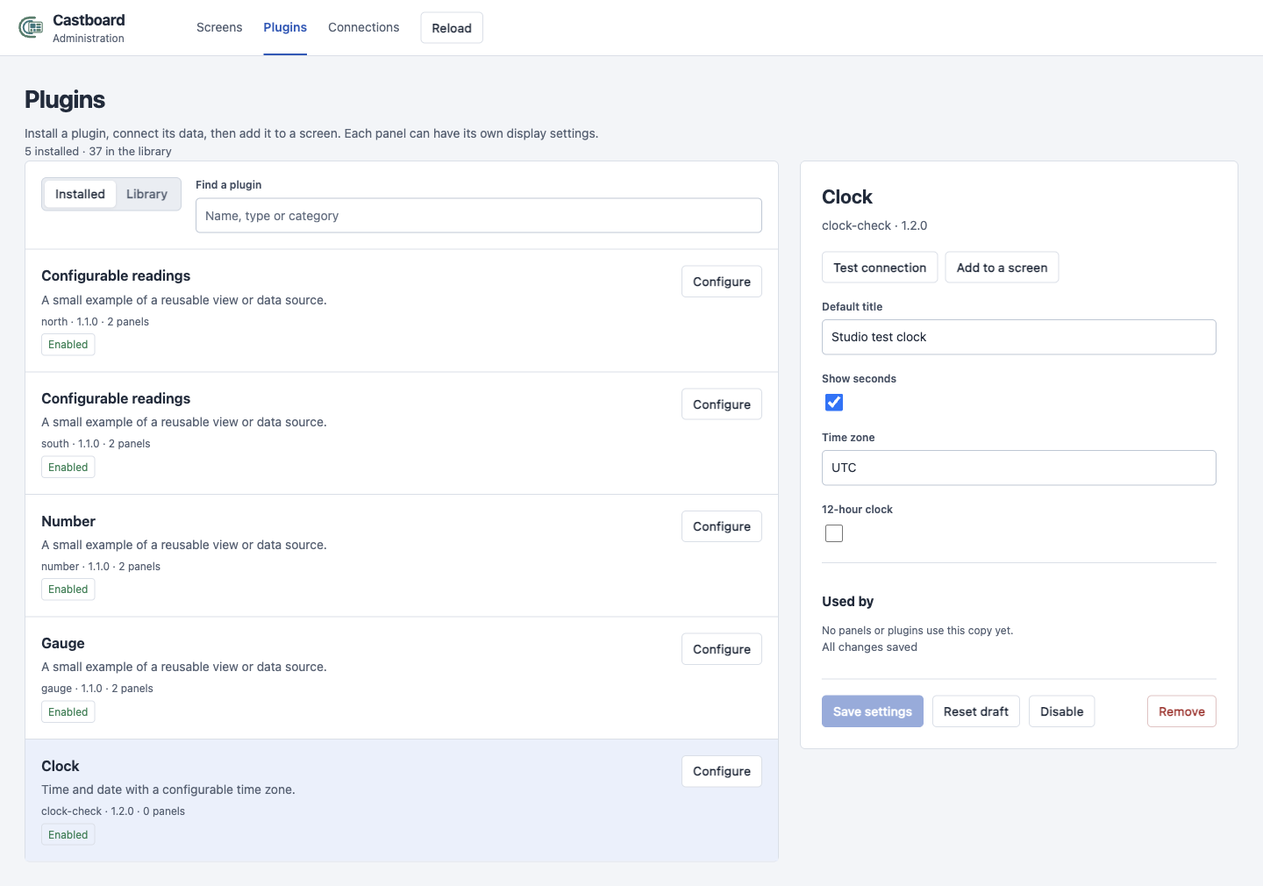
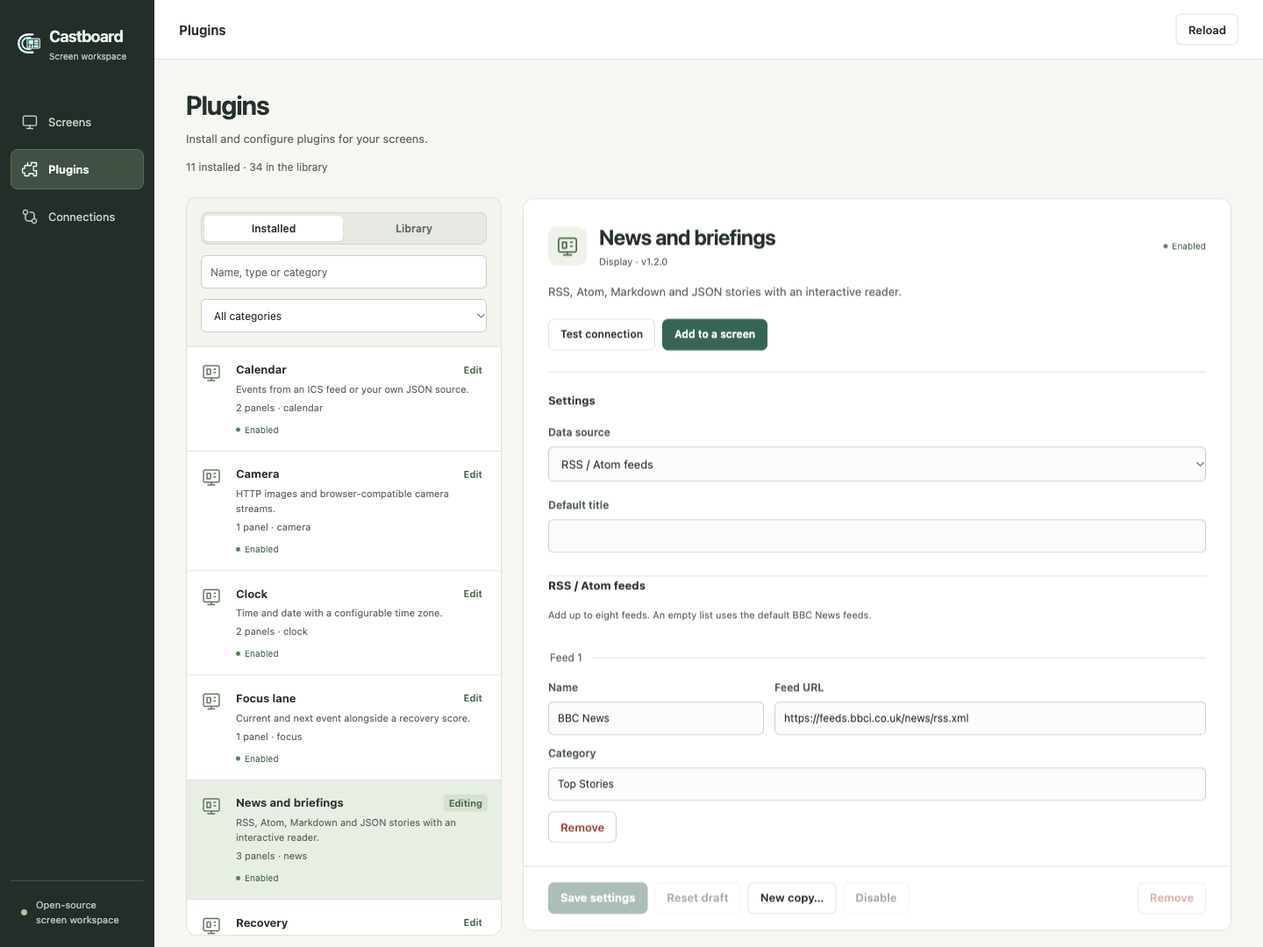
feat(admin): simplify plugin records and finish editing journeys

diff --git a/public/plugin-admin.js b/public/plugin-admin.js
@@ -1,3 +1,4 @@
+import { recordListField } from '/record-list-field.js';
 import { mergeDraft, resolveDraft, sameValue, safePluginDraft, protectedSetting } from '/draft-model.js';
 const $=selector=>document.querySelector(selector);
 const escapeHtml=value=>String(value??'').replace(/[&<>"']/g,char=>({'&':'&amp;','<':'&lt;','>':'&gt;','"':'&quot;',"'":'&#39;'}[char]));
@@ -26,7 +27,9 @@ function restoreEdits(instance){
 function revealRecovery(message,actions=[]){const box=$('#plugin-recovery');box.replaceChildren();box.hidden=!message;if(!message)return;const text=document.createElement('p');text.textContent=message;box.append(text);for(const [label,action]of actions){const button=document.createElement('button');button.className='button secondary';button.type='button';button.textContent=label;button.onclick=action;box.append(button);}}
 
 async function request(url,init={}){
- const response=await fetch(url,{...init,headers:{...(init.body?{'Content-Type':'application/json'}:{}),...(token?{Authorization:`Bearer ${token}`}:{})},cache:'no-store'});
+ let response;
+ try{response=await fetch(url,{...init,headers:{...(init.body?{'Content-Type':'application/json'}:{}),...(token?{Authorization:`Bearer ${token}`}:{})},cache:'no-store'});}
+ catch{throw new Error('Could not reach Castboard. Check your connection, then try again.');}
  const payload=await response.json();
  if(response.status===403){if(!$('#token-dialog').open)$('#token-dialog').showModal();throw new Error('Enter your admin token to continue.');}
  if(!response.ok){const error=new Error(payload.error?.message||'The request failed.');error.code=payload.error?.code;error.status=response.status;throw error;}
@@ -42,12 +45,13 @@ function renderList(){
  if(!data)return;
  const search=$('#plugin-search').value.toLowerCase(),category=$('#plugin-category').value;
  $('.plugin-workspace').classList.toggle('library-mode',collection==='library');
- const entries=(collection==='installed'?data.instances:data.packages).filter(item=>`${item.name} ${item.id} ${item.type||''} ${item.category||pkgFor(item.type)?.category||''}`.toLowerCase().includes(search)&&(!category||categoryName(item)===category)).sort((a,b)=>Number(Boolean(b.hasWidget))-Number(Boolean(a.hasWidget))||a.name.localeCompare(b.name));
+ const missing=[...drafts].filter(([id])=>!data.instances.some(item=>item.id===id)).map(([id,draft])=>({...draft.base,id,missing:true,usedBy:[],enabled:false}));
+ const entries=(collection==='installed'?[...data.instances,...missing]:data.packages).filter(item=>`${item.name} ${item.id} ${item.type||''} ${item.category||pkgFor(item.type)?.category||''}`.toLowerCase().includes(search)&&(!category||categoryName(item)===category)).sort((a,b)=>Number(Boolean(b.hasWidget))-Number(Boolean(a.hasWidget))||a.name.localeCompare(b.name));
  $('#show-installed').setAttribute('aria-pressed',String(collection==='installed'));$('#show-library').setAttribute('aria-pressed',String(collection==='library'));$('#show-installed').classList.toggle('active',collection==='installed');$('#show-library').classList.toggle('active',collection==='library');
  $('#plugin-roster').innerHTML=entries.map(item=>{
   const pkg=collection==='installed'?pkgFor(item.type):item;
   const count=collection==='installed'?item.usedBy.filter(use=>use.kind==='panel').length:data.instances.filter(instance=>instance.type===item.id).length;
-  return `<article class="plugin-row ${collection==='installed'&&item.id===selected?'selected':''}"><div class="plugin-row-icon">${packageIcon(item)}</div><div class="plugin-row-copy"><h2>${escapeHtml(item.name)}</h2><p class="plugin-description">${escapeHtml(pkg?.description||'Locally installed plugin.')}</p><p class="plugin-meta">${collection==='installed'?`${count} panel${count===1?'':'s'} · ${escapeHtml(item.id)}`:escapeHtml(categoryName(item))+' · '+escapeHtml(item.origin)}</p>${collection==='installed'?`<span class="plugin-status ${item.enabled?'enabled':''}">${item.enabled?'Enabled':'Disabled'}${drafts.has(item.id)?' · Draft':''}</span>`:`<span class="plugin-version">v${escapeHtml(item.version||'1.0.0')}${count?` · ${count} installed`:''}</span>`}</div><button class="button row-action" ${collection==='library'&&!item.managed?'disabled':''} data-${collection==='installed'?'select':'install'}="${escapeHtml(item.id)}" aria-label="${collection==='installed'?'Configure':'Install'} ${escapeHtml(item.name)} (${escapeHtml(item.id)})">${collection==='installed'?'Configure':'Install'}</button></article>`;
+  return `<article class="plugin-row ${collection==='installed'&&item.id===selected?'selected':''}"><div class="plugin-row-icon">${packageIcon(item)}</div><div class="plugin-row-copy"><h2>${escapeHtml(item.name)}</h2><p class="plugin-description">${escapeHtml(pkg?.description||'Locally installed plugin.')}</p><p class="plugin-meta">${collection==='installed'?`${count} panel${count===1?'':'s'} · ${escapeHtml(item.id)}`:escapeHtml(categoryName(item))+' · '+escapeHtml(item.origin)}</p>${collection==='installed'?`<span class="plugin-status ${item.enabled?'enabled':''}">${item.missing?'Removed copy':item.enabled?'Enabled':'Disabled'}${drafts.has(item.id)?' · Draft':''}</span>`:`<span class="plugin-version">v${escapeHtml(item.version||'1.0.0')}${count?` · ${count} installed`:''}</span>`}</div><button class="button row-action" ${collection==='library'&&!item.managed?'disabled':''} data-${collection==='installed'?'select':'install'}="${escapeHtml(item.id)}" aria-label="${collection==='installed'?'Configure':'Install'} ${escapeHtml(item.name)} (${escapeHtml(item.id)})">${collection==='installed'?'Configure':'Install'}</button></article>`;
  }).join('')||'<p class="plugin-empty">No plugins match this search.</p>';
  for(const button of document.querySelectorAll('[data-select]'))button.onclick=()=>{if(selected===button.dataset.select)return;if(!canLeave())return;selected=button.dataset.select;resetEdits();rememberSelection();renderList();renderDetail();if(innerWidth<=1000)$('#plugin-detail').scrollIntoView({behavior:'auto',block:'start'});};
  for(const button of document.querySelectorAll('[data-install]'))button.onclick=()=>{if(canLeave())void mutate({action:'install',id:nextCopyId(button.dataset.install),type:button.dataset.install});};
@@ -57,7 +61,7 @@ function showRelevantFields(instance){
  for(const label of document.querySelectorAll('[data-setting]')){
   const field=instance.settingsSchema.properties[label.dataset.setting];
   label.hidden=Boolean(field.showWhen&&!Object.entries(field.showWhen).every(([key,allowed])=>allowed.includes(values[key])));
-  for(const input of label.querySelectorAll('input,select,textarea'))input.disabled=label.hidden||Boolean(input.id===`setting-${label.dataset.setting}`&&label.querySelector('[data-clear-secret]')?.checked);
+  for(const input of label.querySelectorAll('input,select,textarea,button'))input.disabled=label.hidden||Boolean(input.dataset.recordLimit==='true')||Boolean(input.id===`setting-${label.dataset.setting}`&&label.querySelector('[data-clear-secret]')?.checked);
  }
  for(const group of document.querySelectorAll('.advanced-plugin-settings')){group.hidden=![...group.querySelectorAll('[data-setting]')].some(label=>!label.hidden);
  }
@@ -66,6 +70,8 @@ function settingField(key,field,instance){
  const protectedField=protectedSetting(key,field,instance.settings[key],instance.protectedFields);
  const lineList=field.type==='array'&&field.items?.type==='string'&&!protectedField;
  const value=Object.hasOwn(edits,key)?edits[key]:clears.has(key)?'':protectedField?'':instance.settings[key]??pkgFor(instance.type)?.defaultConfig?.[key]??field.default??'';
+ const recordSchema=field.items?.anyOf?.find(item=>item.type==='object')||field.items;
+ if(!protectedField&&field.type==='array'&&recordSchema?.type==='object'&&recordSchema.properties&&Object.values(recordSchema.properties).every(item=>['string','number','integer','boolean'].includes(item.type)))return recordListField(key,{...field,items:recordSchema},value,next=>{edits[key]=next;clears.delete(key);changed();});
  const label=document.createElement('label');label.className=`field${field.type==='boolean'?' boolean-field':''}${protectedField?' secret-field':''}`;label.dataset.setting=key;
  const heading=document.createElement('span');heading.textContent=field.title||key;label.append(heading);
  if(protectedField){const status=document.createElement('small');status.className='field-state';status.textContent=instance.protectedFields.includes(key)?'Configured · hidden':'Not configured';heading.append(status);}
@@ -92,8 +98,19 @@ function settingField(key,field,instance){
  }
  return label;
 }
+function renderUnavailableDraft(instance,draft){
+ const replaced=Boolean(instance),pkg=pkgFor(draft.base.type),detail=$('#plugin-detail');
+ detail.innerHTML=`<header class="detail-heading"><div><h2>${escapeHtml(draft.base.name)}</h2><p>${escapeHtml(selected)} · Unsaved draft</p></div></header><div id="plugin-recovery" class="plugin-recovery" role="status"></div><p id="save-error" class="field-error" role="alert"></p>`;
+ const recover=()=>mutate({action:'install',id:replaced?nextCopyId(draft.base.type):selected,type:draft.base.type},{draft,previousId:selected});
+ const discard=()=>{clearDraft();resetEdits();void load();};
+ const actions=[];
+ if(pkg?.managed)actions.push([replaced?'Restore as a new copy':'Reinstall this copy',recover]);
+ actions.push(['Discard this draft',discard]);
+ revealRecovery(replaced?'A different plugin now uses this copy’s name. Restore your draft as a new copy to keep both.':'This copy was removed in another window. Your draft is still here.'+(pkg?.managed?' Reinstall it to continue editing.':' Its package must be added to the library before it can be restored.'),actions);
+}
 function renderDetail(){
- const instance=data.instances.find(item=>item.id===selected),detail=$('#plugin-detail');
+ const instance=data.instances.find(item=>item.id===selected),detail=$('#plugin-detail'),draft=drafts.get(selected);
+ if(draft&&(!instance||draft.base.type!==instance.type)){resetEdits();renderUnavailableDraft(instance,draft);return;}
  if(!instance){detail.innerHTML='<div class="detail-empty"><h2>Choose a plugin</h2><p>Select an installed plugin to edit its settings, or browse the library to add something new.</p></div>';return;}
  restoreEdits(instance);
  const pkg=pkgFor(instance.type),usage=instance.usedBy;
@@ -128,9 +145,9 @@ function renderDetail(){
  $('#remove-plugin').onclick=()=>{if(!canLeave())return;revealRecovery('Remove this plugin and its saved settings? Its private connection values will also be removed.', [['Keep plugin',()=>revealRecovery('')],['Remove plugin',()=>mutate({action:'remove',id:instance.id})]]);$('#plugin-recovery button').focus();};
  $('#test-plugin').onclick=async()=>{const button=$('#test-plugin'),output=$('#test-result');button.disabled=true;output.textContent='Testing connection…';try{const result=await request('/api/admin/setup/test-plugin',{method:'POST',body:JSON.stringify({pluginId:instance.id})});output.textContent=result.message;}catch(error){output.textContent=error.message;}finally{button.disabled=false;}};
 }
-async function mutate(change){
+async function mutate(change,recovery){
  if(busy)return;captureDraft();const focused=document.activeElement;busy=true;stateMessage('Saving…');if(change.action==='install')$('#page-status').textContent=`Installing ${pkgFor(change.type)?.name||'plugin'}…`;const form=$('#plugin-form');const locked=[...document.querySelectorAll('.plugin-workspace button,.plugin-workspace input,.plugin-workspace select,.plugin-workspace textarea,#refresh-plugins,#install-form button,#install-form input')].map(el=>[el,el.disabled]);for(const [el]of locked)el.disabled=true;
- try{data=await request('/api/admin/plugins',{method:'POST',body:JSON.stringify({...change,revision:change.action==='configure'?draftRevision:data.revision})});if(change.action==='configure'||change.action==='remove')clearDraft(change.id);resetEdits();renderCategories();if(change.action==='install'){selected=change.id;collection='installed';$('#plugin-search').value='';$('#plugin-category').value='';if($('#install-dialog').open)$('#install-dialog').close();}if(change.action==='remove')selected=data.instances.find(item=>item.hasWidget)?.id||data.instances[0]?.id||'';rememberSelection();renderList();renderDetail();$('#page-status').textContent=`${data.instances.length} installed · ${data.packages.length} in the library`;if(change.action==='install'&&innerWidth<=1000)$('#plugin-detail').scrollIntoView({behavior:'auto',block:'start'});toast(change.action==='configure'?'Settings saved and applied.':change.action==='install'?`${pkgFor(change.type)?.name||'Plugin'} installed. Ready to configure.`:'Plugin list updated.');}
+ try{data=await request('/api/admin/plugins',{method:'POST',body:JSON.stringify({...change,revision:change.action==='configure'?draftRevision:data.revision})});if(change.action==='configure'||change.action==='remove')clearDraft(change.id);if(recovery){drafts.delete(recovery.previousId);drafts.set(change.id,recovery.draft);saveDrafts();}resetEdits();renderCategories();if(change.action==='install'){selected=change.id;collection='installed';$('#plugin-search').value='';$('#plugin-category').value='';if($('#install-dialog').open)$('#install-dialog').close();}if(change.action==='remove')selected=data.instances.find(item=>item.hasWidget)?.id||data.instances[0]?.id||'';rememberSelection();renderList();renderDetail();$('#page-status').textContent=`${data.instances.length} installed · ${data.packages.length} in the library`;if(change.action==='install'&&innerWidth<=1000)$('#plugin-detail').scrollIntoView({behavior:'auto',block:'start'});toast(change.action==='configure'?'Settings saved and applied.':change.action==='install'?`${pkgFor(change.type)?.name||'Plugin'} installed. Ready to configure.`:'Plugin list updated.');}
  catch(error){if(error.code==='REVISION_CONFLICT'&&change.action==='configure')revealRecovery('Settings changed in another window. Your draft is still here.',[['Review latest settings',reviewPluginChanges]]);const output=change.action==='install'?($('#install-dialog').open?$('#install-error'):$('#page-status')):$('#save-error');if(output)output.textContent=error.message;else toast(error.message);if(form){$('#save-plugin').disabled=!dirty;$('#reset-settings').disabled=false;const current=data.instances.find(item=>item.id===selected);$('#toggle-plugin').disabled=Boolean(current?.enabled&&current?.usedBy.length);$('#remove-plugin').disabled=Boolean(current?.usedBy.length);}}
  finally{for(const [el,disabled]of locked)if(el.isConnected)el.disabled=disabled;busy=false;if(dirty)stateMessage('Unsaved draft · kept in this tab');if(focused?.isConnected&&!focused.disabled)focused.focus();else if(change.action==='configure')$('#save-plugin')?.focus();}
 }
@@ -155,8 +172,7 @@ async function reviewPluginChanges(){
  try{
   const latest=await request('/api/admin/plugins');
   const current=latest.instances.find(item=>item.id===selected);
-  if(!current){data=latest;revealRecovery('This copy was removed in another window. Your draft is kept here.',[['Reinstall this copy',()=>mutate({action:'install',id:selected,type:draft.base.type})],['Discard this draft',()=>{clearDraft();resetEdits();void load();}]]);return;}
-  if(current.type!==draft.base.type){revealRecovery('This copy was replaced by a different plugin. Your draft cannot be applied to it.',[['Discard this draft',()=>{clearDraft();resetEdits();void load();}]]);return;}
+  if(!current||current.type!==draft.base.type){data=latest;resetEdits();renderList();renderDetail();return;}
   const base={settings:draft.base.settings,bindings:draft.base.bindings};
   const mine=structuredClone(base);Object.assign(mine.settings,draft.edits);for(const key of draft.clears)delete mine.settings[key];if(draft.bindings)mine.bindings=draft.bindings;
   const result=mergeDraft(base,mine,{settings:current.settings,bindings:current.bindings});
@@ -191,7 +207,7 @@ async function load(){
  const locked=[...document.querySelectorAll('.plugin-workspace button,.plugin-workspace input,.plugin-workspace select,.plugin-workspace textarea,#refresh-plugins')].map(el=>[el,el.disabled]);
  for(const [el]of locked)el.disabled=true;
  $('#page-status').textContent='Loading plugins…';
- try{data=await request('/api/admin/plugins');if(!data.instances.some(item=>item.id===selected))selected=data.instances.find(item=>item.hasWidget)?.id||data.instances[0]?.id||'';renderCategories();resetEdits();rememberSelection();renderList();renderDetail();$('#page-status').textContent=`${data.instances.length} installed · ${data.packages.length} in the library`;}
+ try{data=await request('/api/admin/plugins');if(!data.instances.some(item=>item.id===selected)&&!drafts.has(selected))selected=data.instances.find(item=>item.hasWidget)?.id||data.instances[0]?.id||'';renderCategories();resetEdits();rememberSelection();renderList();renderDetail();$('#page-status').textContent=`${data.instances.length} installed · ${data.packages.length} in the library`;}
  catch(error){$('#page-status').textContent=error.message;}
  finally{busy=false;for(const [el,disabled]of locked)if(el.isConnected)el.disabled=disabled;}
 }

diff --git a/public/admin.js b/public/admin.js
@@ -6,6 +6,7 @@ import { History, screenAddress, gridSlot, gridDelta, compatibleSource, schemaDe
 const $ = selector => document.querySelector(selector);
 const $$ = selector => [...document.querySelectorAll(selector)];
 const clone = value => JSON.parse(JSON.stringify(value));
+const requestedPanelTarget = new URLSearchParams(location.search).get('screen');
 
 const state = {
   revision: '',
@@ -163,6 +164,8 @@ async function requestDesign(method = 'GET', payload) {
       body: payload ? JSON.stringify(payload) : undefined,
       signal: controller.signal,
     });
+  } catch (error) {
+    throw new Error(error.name === 'AbortError' ? 'Castboard took too long to reply. Try again.' : 'Could not reach Castboard. Check your connection, then try again.');
   } finally {
     clearTimeout(timer);
   }
@@ -227,11 +230,11 @@ async function loadDesign() {
 function applyRequestedPanel() {
   const url = new URL(location.href), plugin = url.searchParams.get('addPlugin');
   if (!plugin) return;
-  const screen = url.searchParams.get('screen');
+  const screen = requestedPanelTarget;
   url.searchParams.delete('addPlugin'); history.replaceState(null, '', url);
   if (!state.catalog.plugins.some(item=>item.id===plugin)) return showNotice('This plugin is no longer available. Choose another from Plugins.');
   if (!state.design.screens[screen]) return showNotice('This screen is no longer available. Choose a screen before adding the plugin.');
-  state.selectedScreenId = screen; state.selectedPanelId = ''; renderAll();
+  state.selectedScreenId = screen; state.selectedPanelId = ''; rememberScreen(); renderAll();
   addPanel(plugin);
 }
 function populateCatalogControls() {
@@ -558,13 +561,13 @@ async function renderCanvas() {
         element.addEventListener('pointerdown', event => screen.type === 'flow' ? beginFlowDrag(event,panel.id,element) : beginPanelDrag(event,panel.id,element));
       }
       element.addEventListener('click', () => selectPanel(panel.id));
-      element.addEventListener('keydown', event => { if (event.key === 'Enter' || event.key === ' ') {event.preventDefault();selectPanel(panel.id);} else if (state.editorModel && ['ArrowLeft','ArrowRight','ArrowUp','ArrowDown'].includes(event.key)) {event.preventDefault(); keyboardPanel(event,panel.id);} });
+      element.addEventListener('keydown', event => { if (event.key === 'Enter' || event.key === ' ') {event.preventDefault();selectPanel(panel.id);} else if ((state.editorModel || screen.type === 'flow') && ['ArrowLeft','ArrowRight','ArrowUp','ArrowDown'].includes(event.key)) {event.preventDefault(); screen.type === 'flow' ? keyboardFlowPanel(event,panel.id) : keyboardPanel(event,panel.id);} });
       surface.append(element);
     }
     renderSharedHandles(surface);
     if(focused?.panel) surface.querySelector(`[data-panel="${CSS.escape(focused.panel)}"]`)?.focus({preventScroll:true});
     else if(focused?.edge) surface.querySelector(`[data-edge="${CSS.escape(focused.edge)}"]`)?.focus({preventScroll:true});
-    $('#canvas-message').textContent = !screen.panels.length ? 'Start with a panel, then arrange and style it here.' : collisionIds.size ? `${collisionIds.size} panels overlap. Adjust their placement before saving.` : state.editorModel ? 'Drag panels to rearrange them. Drag the edges between panels to resize. Arrow keys move; Shift + arrows resize.' : screen.type === 'flow' ? 'Drag panels to reorder them. Drag a corner to resize.' : 'Select a panel to edit its plugin options and appearance.';
+    $('#canvas-message').textContent = !screen.panels.length ? 'Start with a panel, then arrange and style it here.' : collisionIds.size ? `${collisionIds.size} panels overlap. Adjust their placement before saving.` : state.editorModel ? 'Drag panels to rearrange them. Drag the edges between panels to resize. Arrow keys move; Shift + arrows resize.' : screen.type === 'flow' ? 'Drag panels to reorder them. Drag a corner to resize. Arrow keys reorder; Shift + arrows resize.' : 'Select a panel to edit its plugin options and appearance.';
   } catch (error) {
     if (generation !== canvasGeneration) return;
     $('#canvas-message').textContent = `Cannot preview this layout: ${error.message}`;
@@ -683,6 +686,21 @@ function keyboardPanel(event,id) {
   const next=shuffleGrid(model,id,target);
   if(!next)return toast('No room for that change.',true);
   applyEditorModel(next);markDirty();renderCanvas();renderPanelInspector();
+}
+function keyboardFlowPanel(event,id) {
+  if(!canLeaveField())return;
+  const screen=currentScreen(),index=screen.panels.findIndex(panel=>panel.id===id),panel=screen.panels[index];
+  const forward=event.key==='ArrowRight'||event.key==='ArrowDown',delta=forward?1:-1;
+  if(event.shiftKey){
+    const key=event.key==='ArrowLeft'||event.key==='ArrowRight'?'columns':'rows';
+    const limit=key==='columns'?getComputedStyle($('#design-surface')).gridTemplateColumns.split(' ').length:12;
+    const before=panel.size?.[key]||1,next=clamp(before+delta,1,limit);
+    if(next===before)return;panel.size={...panel.size,[key]:next};
+  }else{
+    const next=index+delta;if(next<0||next>=screen.panels.length)return;
+    screen.panels.splice(index,1);screen.panels.splice(next,0,panel);
+  }
+  markDirty();renderPanelList();renderCanvas();renderPanelInspector();
 }
 function beginFlowDrag(event,id,element) {
   if(event.button!==0||!canLeaveField())return;event.preventDefault();selectPanel(id,false);renderPanelInspector();

diff --git a/public/record-list-field.js b/public/record-list-field.js
@@ -1,0 +1,39 @@
+// Repeated schema-defined records use ordinary controls while retaining unknown fields.
+export function recordListField(key, schema, initial, changed) {
+  const root=document.createElement('section');root.className='record-list field';root.dataset.setting=key;
+  const title=document.createElement('h4');title.textContent=schema.title||key;root.append(title);
+  if(schema.description){const hint=document.createElement('p');hint.className='hint';hint.textContent=schema.description;root.append(hint);}
+  const rows=document.createElement('div');root.append(rows);
+  const add=document.createElement('button');add.type='button';add.className='button';add.textContent=schema.addLabel||'Add item';root.append(add);
+  let records=structuredClone(Array.isArray(initial)?initial:[]).map(item=>typeof item==='string'&&schema.stringItemProperty?{[schema.stringItemProperty]:item}:item);
+  function publish(){changed(structuredClone(records));}
+  function render(focusIndex){
+    rows.replaceChildren();
+    add.disabled=schema.maxItems!==undefined&&records.length>=schema.maxItems;add.dataset.recordLimit=String(add.disabled);
+    records.forEach((record,index)=>{
+      const group=document.createElement('fieldset'),legend=document.createElement('legend');legend.textContent=`${schema.itemLabel||'Item'} ${index+1}`;group.append(legend);
+      const fields=document.createElement('div');fields.className='record-fields';group.append(fields);
+      for(const [property,field]of Object.entries(schema.items.properties)){
+        const label=document.createElement('label');label.className='field';const name=document.createElement('span');name.textContent=field.title||property;
+        const input=document.createElement(field.enum?'select':'input');
+        if(field.enum)for(const value of field.enum){const option=document.createElement('option');option.value=value;option.textContent=field.enumLabels?.[value]||value;input.append(option);}
+        else input.type=field.type==='boolean'?'checkbox':['integer','number'].includes(field.type)?'number':field.format==='uri'?'url':'text';
+        input.id=`record-${key}-${index}-${property}`;input.required=field.type!=='boolean'&&Boolean(schema.items.required?.includes(property));
+        if(field.minimum!==undefined)input.min=field.minimum;if(field.maximum!==undefined)input.max=field.maximum;if(field.type==='number')input.step='any';
+        if(field.type==='boolean')input.checked=Boolean(record[property]??field.default);else input.value=record[property]??field.default??'';
+        input.addEventListener(field.enum||field.type==='boolean'?'change':'input',()=>{
+          records[index]={...records[index]};
+          if(input.value===''&&field.type!=='boolean')delete records[index][property];
+          else records[index][property]=field.type==='boolean'?input.checked:['number','integer'].includes(field.type)?Number(input.value):input.value;
+          publish();
+        });
+        label.append(name,input);fields.append(label);
+      }
+      const remove=document.createElement('button');remove.type='button';remove.className='button danger';remove.textContent='Remove';remove.setAttribute('aria-label',`Remove ${schema.itemLabel||'item'} ${index+1}`);
+      remove.onclick=()=>{records.splice(index,1);publish();render(Math.min(index,records.length-1));};group.append(remove);rows.append(group);
+    });
+    if(!records.length){const empty=document.createElement('p');empty.className='hint';empty.textContent=schema.emptyLabel||'No items added yet.';rows.append(empty);}
+    if(focusIndex!==undefined)(rows.children[focusIndex]?.querySelector('input,select')||add).focus();
+  }
+  add.onclick=()=>{records.push({});publish();render(records.length-1);};render();return root;
+}

diff --git a/test/plugin-admin.test.js b/test/plugin-admin.test.js
@@ -18,6 +18,15 @@ test('install connects an existing dependency by type without replacing it',()=>
  const next=changePluginConfig(base,packages,{action:'install',type:'view',id:'display'});assert.deepEqual(next.plugins.display.bindings,{reading:'north'});assert.equal(Object.keys(next.plugins).length,2);assert.equal(next.plugins.north.token,'secret');
  const cycle=[{id:'a',managed:true,defaultBindings:{b:'b'}},{id:'b',managed:true,defaultBindings:{a:'a'}}];assert.throws(()=>changePluginConfig({plugins:{},screens:{}},cycle,{action:'install',type:'a',id:'a'}),/cycle/);
 });
+test('installation reports duplicate copies and disabled dependencies without partial changes',()=>{
+ const disabled={plugins:{meter:{type:'meter',enabled:false,value:7}},screens:{}};
+ assert.throws(()=>changePluginConfig(disabled,packages,{action:'install',type:'view',id:'display'}),/Enable meter/);
+ assert.deepEqual(disabled.plugins,{meter:{type:'meter',enabled:false,value:7}});
+ assert.throws(()=>changePluginConfig(base,packages,{action:'install',type:'meter',id:'north'}),/already installed/);
+ const first=changePluginConfig(base,packages,{action:'install',type:'meter',id:'second'});
+ const next=changePluginConfig(first,packages,{action:'configure',id:'second',settings:{value:99}});
+ assert.equal(next.plugins.north.value,12);assert.equal(next.plugins.second.value,99);
+});
 async function fixture(t){
  const root=await fs.mkdtemp(path.join(os.tmpdir(),'castboard-plugin-admin-'));t.after(()=>fs.rm(root,{recursive:true,force:true}));await fs.writeFile(path.join(root,'package.json'),'{"type":"module"}');
  const directory=path.join(root,'extensions/plugins/meter');await fs.mkdir(directory,{recursive:true});

diff --git a/src/core/extensions.js b/src/core/extensions.js
@@ -23,6 +23,7 @@ export async function extensionDirectories(builtin, config, kind, configDir = pr
 
 export function validateSchema(value, schema, label = 'options') {
   if (!schema) return;
+  if (schema.anyOf && !schema.anyOf.some(choice => { try { validateSchema(value, choice, label); return true; } catch { return false; } })) throw new Error(`${label} does not match an allowed format`);
   if (schema.type === 'object') {
     if (!value || typeof value !== 'object' || Array.isArray(value)) throw new Error(`${label} must be an object`);
     for (const key of schema.required || []) if (!Object.hasOwn(value, key) || value[key] === undefined) throw new Error(`${label}.${key} is required`);
@@ -30,6 +31,8 @@ export function validateSchema(value, schema, label = 'options') {
     if (schema.additionalProperties === false) for (const key of Object.keys(value)) if (!Object.hasOwn(schema.properties || {}, key)) throw new Error(`${label}.${key} is not supported`);
   } else if (schema.type === 'array') {
     if (!Array.isArray(value)) throw new Error(`${label} must be an array`);
+    if (schema.maxItems !== undefined && value.length > schema.maxItems) throw new Error(`${label} has too many items`);
+    if (schema.minItems !== undefined && value.length < schema.minItems) throw new Error(`${label} has too few items`);
     value.forEach((item, index) => validateSchema(item, schema.items, `${label}[${index}]`));
   } else if (schema.type === 'integer' || schema.type === 'number') {
     if (typeof value !== 'number' || !Number.isFinite(value) || (schema.type === 'integer' && !Number.isInteger(value))) throw new Error(`${label} must be a ${schema.type}`);

diff --git a/public/admin.css b/public/admin.css
@@ -37,3 +37,4 @@ body.admin-app{padding-left:176px}::selection{background:#c6dfcd;color:#163b2b}i
 :is(#draft-conflict-dialog,#plugin-conflict-dialog){max-width:560px;width:calc(100% - 32px);max-height:85dvh;overflow:auto}:is(#draft-conflicts,#plugin-conflicts) fieldset{border:0;border-top:1px solid var(--line);padding:16px 0;margin:0}:is(#draft-conflicts,#plugin-conflicts) legend{font-size:13px;font-weight:650;padding:0 0 6px;overflow-wrap:anywhere}:is(#draft-conflicts,#plugin-conflicts) label{display:flex;align-items:flex-start;gap:12px;padding:12px;border-radius:6px;cursor:pointer;min-height:48px}:is(#draft-conflicts,#plugin-conflicts) label:has(input:checked){background:var(--selection)}:is(#draft-conflicts,#plugin-conflicts) input{margin-top:3px;flex:none}:is(#draft-conflicts,#plugin-conflicts) strong,:is(#draft-conflicts,#plugin-conflicts) small{display:block;font-size:13px;line-height:1.6}:is(#draft-conflicts,#plugin-conflicts) small{color:var(--muted);overflow-wrap:anywhere}:is(#draft-conflict-dialog,#plugin-conflict-dialog) footer{position:sticky;bottom:-28px;background:var(--paper);padding:16px 0 0;display:flex;justify-content:flex-end;gap:8px}
 @media(max-width:800px){:is(#draft-conflict-dialog,#plugin-conflict-dialog) button{min-height:44px}}
 .topbar-center{font-size:11px}
+@media(max-width:800px){.admin-app button,.studio-page .topbar-actions .button,.studio-page .color-field button{min-height:44px}.admin-app .field :is(input:not([type=checkbox]),select),.studio-page .toolbar-meta select{min-height:44px}.studio-page summary{min-height:44px;padding-block:12px}.studio-page .field:has(input[type=checkbox]){min-height:44px}}

diff --git a/src/server.js b/src/server.js
@@ -330,6 +330,7 @@ export async function createApp(options = {}) {
       if (req.method === 'GET' && url.pathname === '/appearance-model.js') return sendFile(res, path.join(PUBLIC_DIR, 'appearance-model.js'));
       if (req.method === 'GET' && url.pathname === '/admin-preview' && runtimeConfig.admin?.enabled !== false) return sendFile(res, path.join(PUBLIC_DIR, 'index.html'));
       if (req.method === 'GET' && url.pathname === '/draft-model.js' && runtimeConfig.admin?.enabled !== false) return sendFile(res, path.join(PUBLIC_DIR, 'draft-model.js'));
+      if (req.method === 'GET' && url.pathname === '/record-list-field.js' && runtimeConfig.admin?.enabled !== false) return sendFile(res, path.join(PUBLIC_DIR, 'record-list-field.js'));
       if (req.method === 'GET' && url.pathname === '/screen-path.js' && runtimeConfig.admin?.enabled !== false) return sendFile(res, path.join(ROOT, 'src/core/screen-path.js'));
       if (req.method === 'GET' && url.pathname === '/studio-model.js' && runtimeConfig.admin?.enabled !== false) return sendFile(res, path.join(PUBLIC_DIR, 'studio-model.js'));
       if (req.method === 'GET' && url.pathname === '/admin' && runtimeConfig.admin?.enabled !== false) return sendFile(res, path.join(PUBLIC_DIR, 'admin.html'));

diff --git a/public/plugin-admin.css b/public/plugin-admin.css
@@ -13,3 +13,4 @@
 
 .advanced-plugin-settings{margin-top:20px;border-top:1px solid var(--line);padding-top:12px}.advanced-plugin-settings summary{cursor:pointer;font-size:12px;color:var(--muted);padding:8px 0 16px}.advanced-plugin-settings[hidden]{display:none}.plugin-detail [hidden]{display:none!important}
 .plugin-recovery{padding:16px;margin-bottom:20px;background:var(--wash);border-radius:8px}.plugin-recovery p{font-size:13px;line-height:1.6;margin:0 0 12px}.plugin-recovery button{margin:0 8px 6px 0;min-height:40px}@media(max-width:800px){.plugin-recovery button,.plugin-detail button,.plugin-roster button{min-height:44px}}
+.record-list>h4{font-size:13px;margin:0 0 8px}.record-list>p{margin:0 0 12px}.record-list fieldset{border:0;border-top:1px solid var(--line);padding:16px 0;margin:12px 0}.record-list legend{font-size:12px;color:var(--muted);padding-right:12px;text-transform:capitalize}.record-fields{display:grid;grid-template-columns:1fr 2fr;gap:12px;margin-bottom:12px}.record-fields .field{margin:0}.record-fields .field:last-child:nth-child(odd){grid-column:1/-1}@media(max-width:800px){.record-fields{grid-template-columns:1fr}.record-list button{min-height:44px}}

diff --git a/test/extensions.test.js b/test/extensions.test.js
@@ -110,3 +110,11 @@ test('schema allowlists and required fields use declared own properties',()=>{
  assert.throws(()=>validateSchema(JSON.parse('{"constructor":"unexpected"}'),schema),/not supported/);
  assert.throws(()=>validateSchema({}, {type:'object',required:['toString']}),/is required/);
 });
+
+test('record lists retain legacy strings and validate structured entries and limits',()=>{
+ const schema={type:'array',maxItems:2,items:{anyOf:[{type:'string'},{type:'object',required:['url'],properties:{url:{type:'string'}}}]}};
+ assert.doesNotThrow(()=>validateSchema(['https://example.test/rss',{url:'https://example.test/feed',category:'News'}],schema));
+ assert.throws(()=>validateSchema([{}],schema),/allowed format/);
+ assert.throws(()=>validateSchema([42],schema),/allowed format/);
+ assert.throws(()=>validateSchema(['a','b','c'],schema),/too many/);
+});

diff --git a/src/core/screen-path.js b/src/core/screen-path.js
@@ -1,4 +1,4 @@
-const RESERVED = new Set(['/draft-model.js', '/setup', '/admin-preview', '/app.js', '/styles.css', '/admin.js', '/admin.css', '/setup.js', '/setup.css', '/studio-model.js', '/widget-kit.js', '/schema-fields.js', '/appearance-model.js', '/plugin-admin.js', '/plugin-admin.css', '/screen-path.js']);
+const RESERVED = new Set(['/draft-model.js', '/record-list-field.js', '/setup', '/admin-preview', '/app.js', '/styles.css', '/admin.js', '/admin.css', '/setup.js', '/setup.css', '/studio-model.js', '/widget-kit.js', '/schema-fields.js', '/appearance-model.js', '/plugin-admin.js', '/plugin-admin.css', '/screen-path.js']);
 
 export function screenPathError(value) {
   if (typeof value !== 'string' || !value.startsWith('/')) return 'The web address path must start with /.';

diff --git a/public/setup.js b/public/setup.js
@@ -10,7 +10,9 @@ let token = sessionStorage.getItem('castboard-admin-token') || '';
 
 async function request(path, init = {}, retry = true) {
   const headers = { ...(init.headers || {}), ...(token ? { Authorization: `Bearer ${token}` } : {}) };
-  const response = await fetch(path, { ...init, headers, cache: 'no-store' });
+  let response;
+  try { response = await fetch(path, { ...init, headers, cache: 'no-store' }); }
+  catch { throw new Error('Could not reach Castboard. Check your connection, then try again.'); }
   if (response.status === 403) {
     if (!$('#token-dialog').open) $('#token-dialog').showModal();
     throw new Error('Enter your admin token to continue.');

diff --git a/src/core/setup.js b/src/core/setup.js
@@ -15,7 +15,7 @@ const PROVIDERS = {
     'camera-service': ['adapter', 'Camera bridge', 'Requires an external camera discovery and streaming service.'],
   },
   clock: { local: ['ready', 'Built in', 'Uses the display clock and needs no provider.'] },
-  focus: { local: ['ready', 'Built in', 'Combines Calendar and Recovery; gracefully falls back when either is unavailable.'] },
+  focus: { local: ['ready', 'Built in', 'Uses Calendar and Recovery when available.'] },
   news: {
     demo: ['demo', 'Demo stories', 'Choose RSS for live public headlines.'],
     rss: ['ready', 'Built in', 'Aggregates RSS or Atom feeds; BBC public news feeds are included by default.'],
